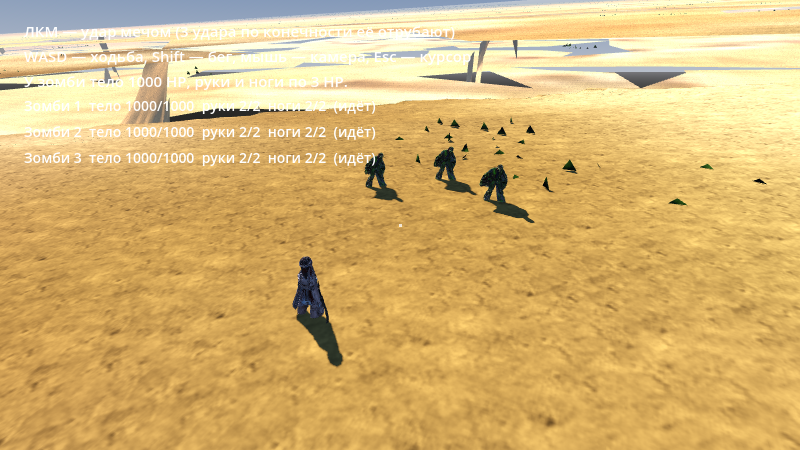
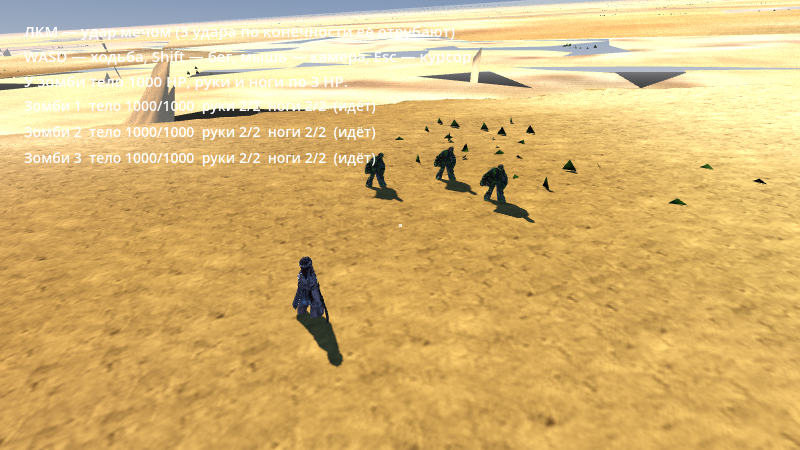
ci: отчёт проверки движком [skip ci]

diff --git a/ci/report.md b/ci/report.md
@@ -102,7 +102,7 @@ PASS  остров: земля на родном атласе 4096px
 PASS  остров: земля на шейдере ground.gdshader
 PASS  шейдер земли получает атлас
 PASS  шейдер земли получает зерно
-PASS  заплатки земли в дырах острова: треугольников 18478
+PASS  заплатки земли в дырах острова: треугольников 16930
 PASS  заплатки рисуются шейдером земли (атлас + зерно)
 PASS  карта высот загружена в float32 (высота в метрах)
 PASS  высота арены из карты (1405.00) совпадает с arena.json (1405.00)
@@ -157,8 +157,8 @@ WARNING: All audio drivers failed, falling back to the dummy driver.
 shot 01_player (800, 450) -> /tmp/shots/01_player.png err=0
 shot 02_arena (800, 450) -> /tmp/shots/02_arena.png err=0
 shot 03_zombie (800, 450) -> /tmp/shots/03_zombie.png err=0
-зомби-ползун: body y=1405.20 model y=0.00 lowest bone=Hand_R y=1405.57 lowest mesh y=1404.54 on_floor=true
-игрок y=1404.20 pos=(1309.365, 1404.197, -69.25084), камера=(1311.556, 1407.282, -77.73944)
+зомби-ползун: body y=1405.21 model y=0.00 lowest bone=Hand_R y=1405.58 lowest mesh y=1404.54 on_floor=true
+игрок y=1404.20 pos=(1309.365, 1404.197, -69.25084), камера=(1311.556, 1407.285, -77.76264)
 shot 04_crawl (800, 450) -> /tmp/shots/04_crawl.png err=0
 shot 05_debris (800, 450) -> /tmp/shots/05_debris.png err=0
 shot 08_only_ocean (800, 450) -> /tmp/shots/08_only_ocean.png err=0
